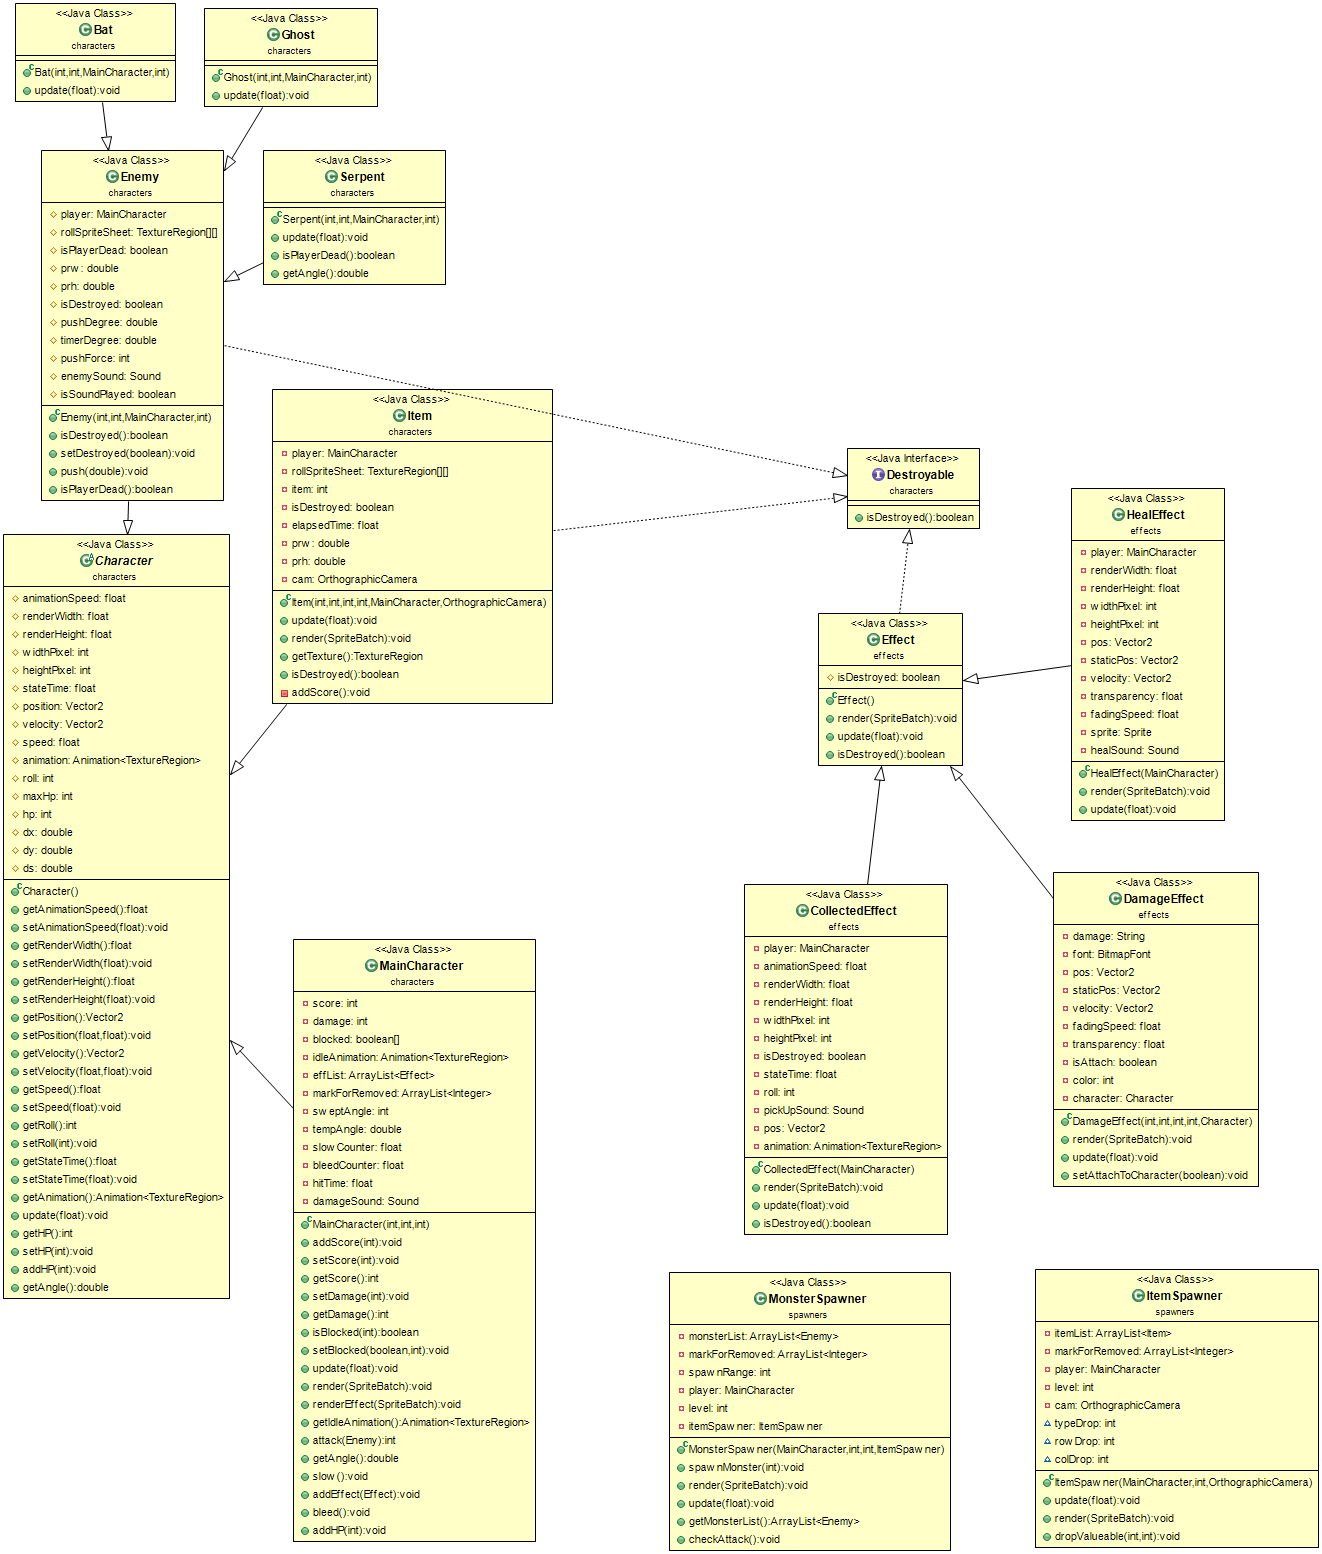
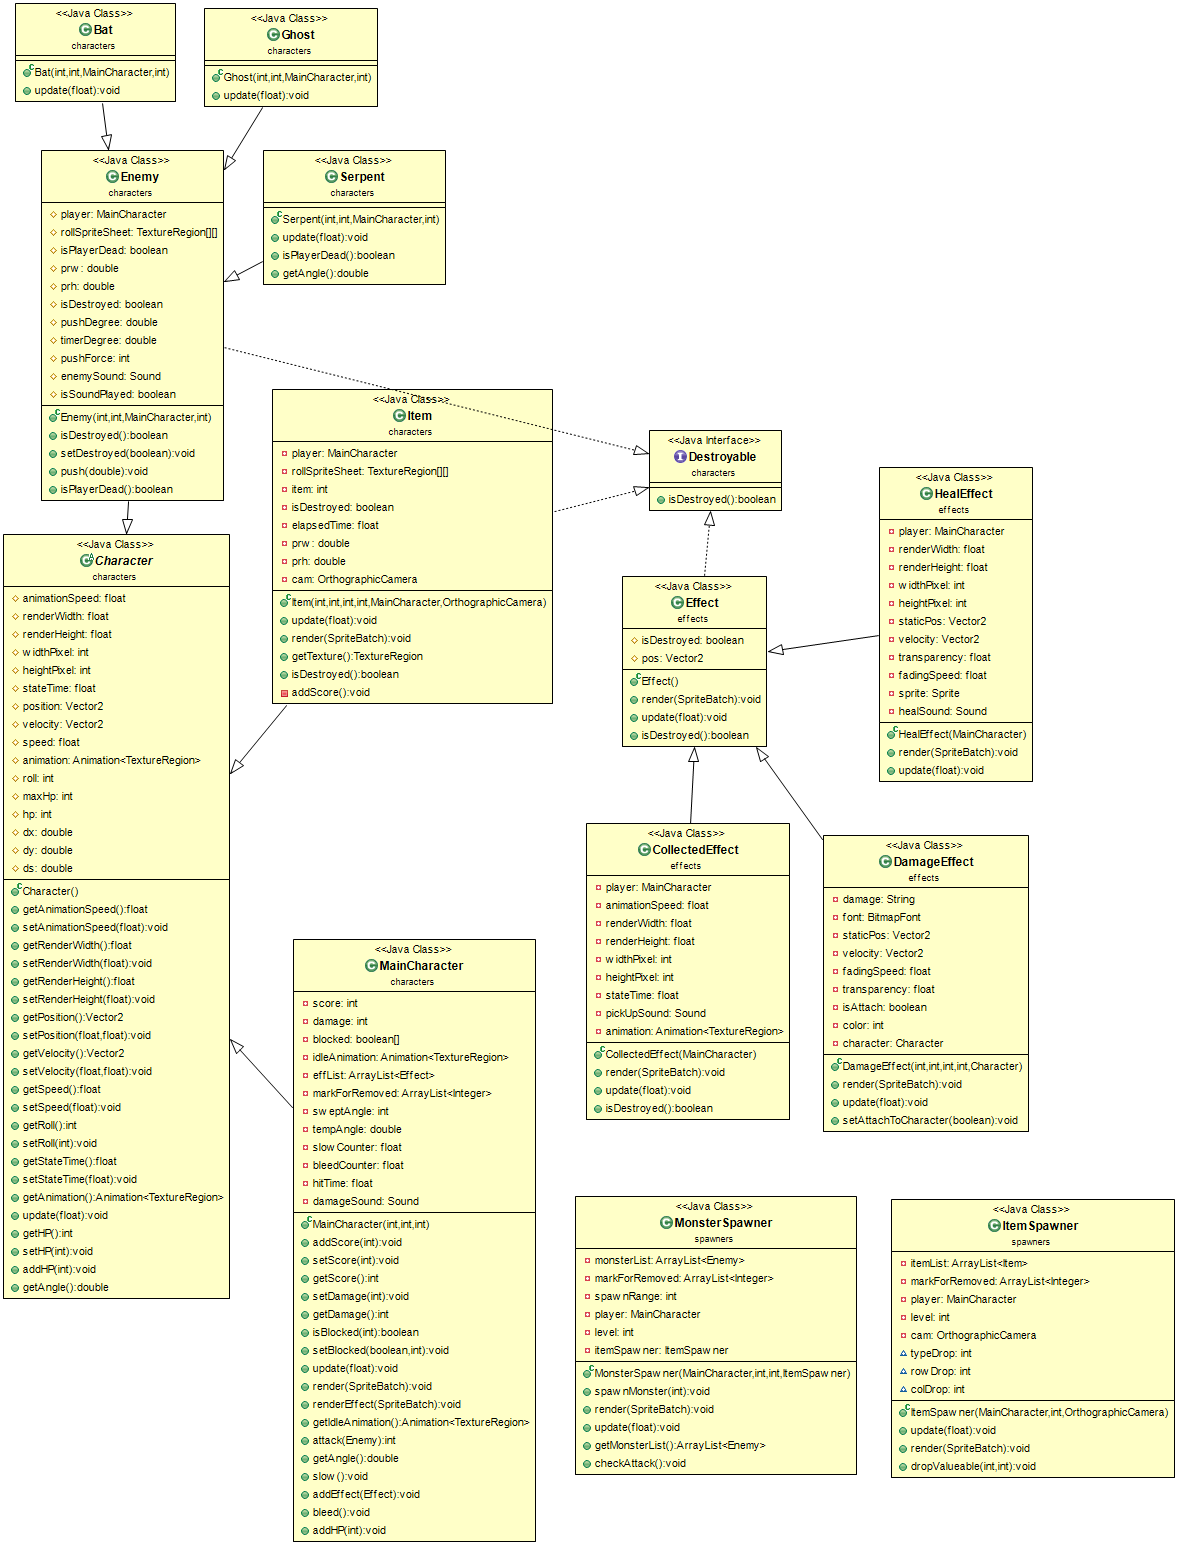
character cleaned 2

diff --git a/core/src/characters/Item.java b/core/src/characters/Item.java
@@ -1,16 +1,10 @@
 package characters;
 
-import com.badlogic.gdx.Gdx;
-import com.badlogic.gdx.Input;
-import com.badlogic.gdx.graphics.GL20;
 import com.badlogic.gdx.graphics.OrthographicCamera;
 import com.badlogic.gdx.graphics.Texture;
-import com.badlogic.gdx.graphics.g2d.Animation;
-import com.badlogic.gdx.graphics.g2d.Sprite;
 import com.badlogic.gdx.graphics.g2d.SpriteBatch;
 import com.badlogic.gdx.graphics.g2d.TextureRegion;
 import com.badlogic.gdx.math.Vector2;
-import com.gameprogmeth.game.GameProgMeth;
 import com.gameprogmeth.game.world.StoneAndGem;
 
 import effects.CollectedEffect;
@@ -27,7 +21,7 @@ public class Item extends Character implements Destroyable {
 	private double prw;
 	private double prh;
 	private OrthographicCamera cam;
-	
+
 	public Item(int x, int y, int speed, int item, MainCharacter player, OrthographicCamera cam) {
 		animationSpeed = 0.5f;
 		renderWidth = 16;
@@ -151,8 +145,7 @@ public class Item extends Character implements Destroyable {
 			tempEffect.setAttachToCharacter(true);
 			player.addEffect(tempEffect);
 			player.addEffect(new CollectedEffect(player));
-		}
-		else {
+		} else {
 			player.addEffect(new HealEffect(player));
 		}
 	}

diff --git a/core/src/effects/Effect.java b/core/src/effects/Effect.java
@@ -1,15 +1,18 @@
 package effects;
 
 import com.badlogic.gdx.graphics.g2d.SpriteBatch;
+import com.badlogic.gdx.math.Vector2;
 
 import characters.Destroyable;
 
 public class Effect implements Destroyable {
 	protected boolean isDestroyed;
+	protected Vector2 pos;
 
 	public Effect() {
 		isDestroyed = false;
 	}
+
 	public void render(SpriteBatch batch) {
 
 	}

diff --git a/core/src/effects/CollectedEffect.java b/core/src/effects/CollectedEffect.java
@@ -18,10 +18,8 @@ public class CollectedEffect extends Effect {
 	private float renderHeight;
 	private int widthPixel;
 	private int heightPixel;
-	private boolean isDestroyed;
 	private float stateTime;
 	private Sound pickUpSound;
-	private Vector2 pos;
 	private Animation<TextureRegion> animation;
 
 	public CollectedEffect(MainCharacter player) {

diff --git a/core/src/characters/Character.java b/core/src/characters/Character.java
@@ -3,8 +3,6 @@ package characters;
 import com.badlogic.gdx.graphics.g2d.Animation;
 import com.badlogic.gdx.graphics.g2d.TextureRegion;
 import com.badlogic.gdx.math.Vector2;
-import com.badlogic.gdx.scenes.scene2d.ui.TextField;
-import com.badlogic.gdx.scenes.scene2d.ui.TextField.TextFieldStyle;
 
 public abstract class Character {
 

diff --git a/core/src/effects/HealEffect.java b/core/src/effects/HealEffect.java
@@ -16,7 +16,6 @@ public class HealEffect extends Effect {
 	private float renderHeight;
 	private int widthPixel;
 	private int heightPixel;
-	private Vector2 pos;
 	private Vector2 staticPos;
 	private Vector2 velocity;
 	private float transparency;

diff --git a/core/src/effects/DamageEffect.java b/core/src/effects/DamageEffect.java
@@ -9,7 +9,6 @@ import characters.Character;
 public class DamageEffect extends Effect {
 	private String damage;
 	private BitmapFont font;
-	private Vector2 pos;
 	private Vector2 staticPos;
 	private Vector2 velocity;
 	private float fadingSpeed;
